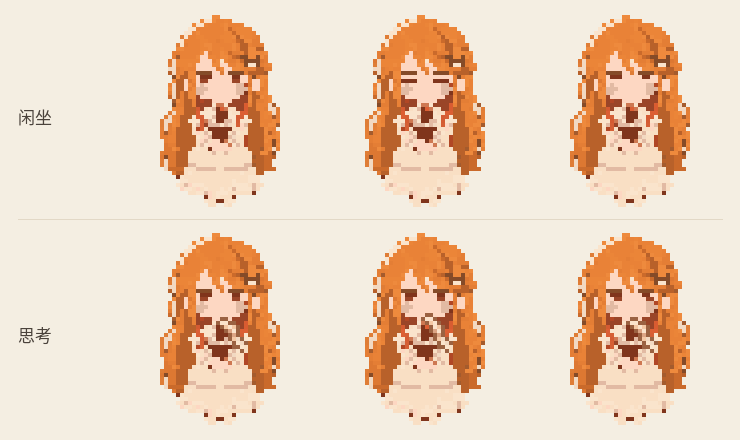
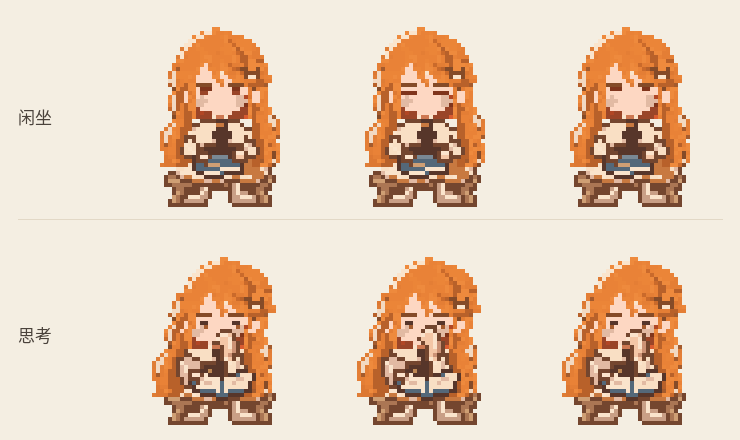
Distinguish Xiaoke's seated idle and thinking poses

diff --git a/docs/STATUS.md b/docs/STATUS.md
@@ -57,5 +57,5 @@
 ## C7 宠物预览
 
 - 肉包已定稿并打成内置包 `App/Pets/roubao/`，共 14 个状态、42 帧，署名「lllhr94」、授权「仅限 Clio 使用」。GitHub Actions iOS 编译已通过（`shots=false`）。
-- 小克（宠物包 ID `xiaoke`）恢复主人选定的柔和初版，发色调为亮橘橙和深橙，保留明暗层次。闲坐仅眨眼，思考仅动手和视线。透明逐帧 PNG、总预览及两张 GIF 在 `design/incoming/pet/xiaoke/`，等主人看过再补其余状态。
+- 小克（宠物包 ID `xiaoke`）恢复主人选定的柔和初版，发色调为亮橘橙和深橙，保留明暗层次。闲坐改为坐在矮凳上合书眨眼，思考改为低头托腮，翻开的书搁在膝上。透明逐帧 PNG、总预览及两张 GIF 在 `design/incoming/pet/xiaoke/`，等主人看过再补其余状态。
 - C9 单独提供小克与肉包两套引导预览。C5 的头像接入可用已定稿的肉包验证。

diff --git a/design/incoming/pet/xiaoke/README.md b/design/incoming/pet/xiaoke/README.md
@@ -5,6 +5,6 @@
 | 状态 | 第 1 帧 | 第 2 帧 | 第 3 帧 |
 | --- | ---: | ---: | ---: |
 | 闲坐（idle） | 950 ms | 120 ms | 80 ms |
-| 思考（thinking） | 760 ms | 280 ms | 380 ms |
+| 思考（thinking） | 840 ms | 240 ms | 360 ms |
 
-底稿是主人选定的初版像素图。闲坐只动眼睛，思考只动托腮的手和视线。
+底稿是主人选定的初版像素图。闲坐时坐在矮凳上合书眨眼。思考时身体前倾，一手托腮，另一手按着翻开的书。每组只动眼睛和必要的手部像素。
